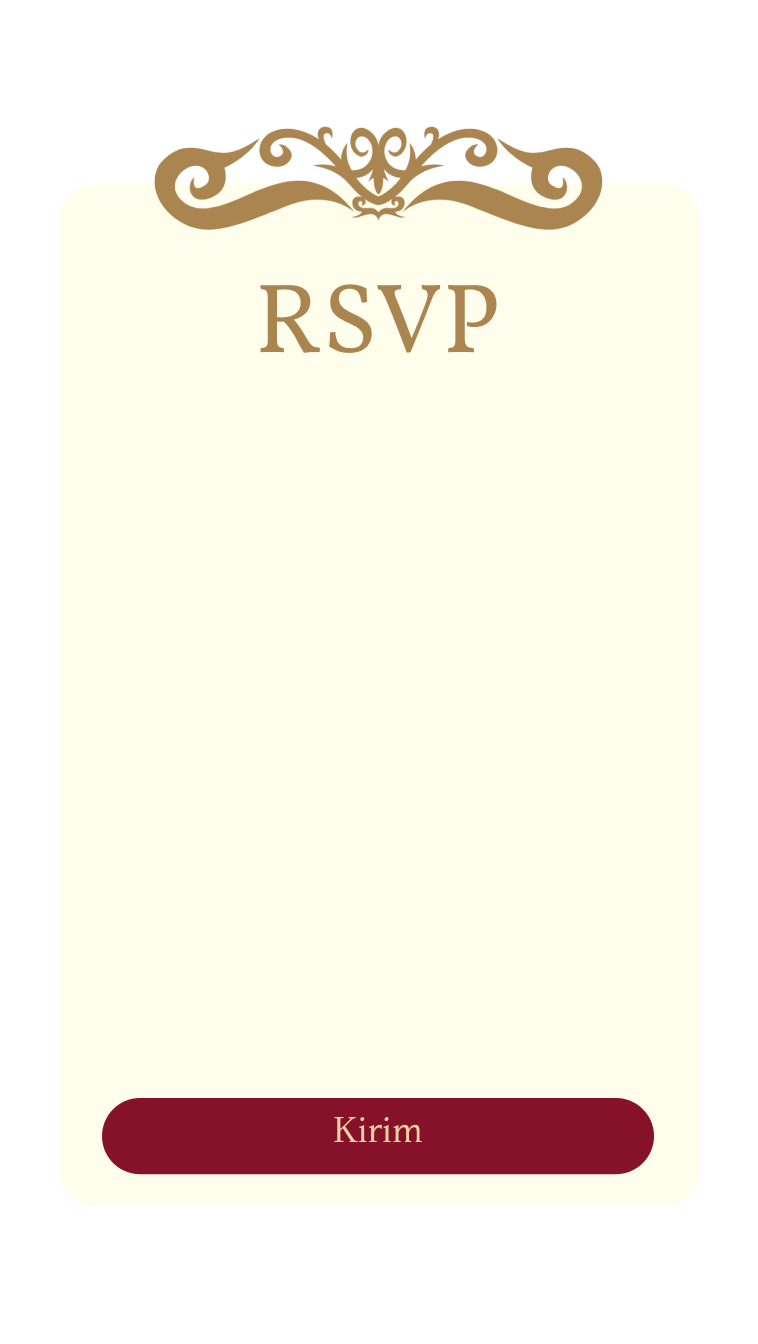
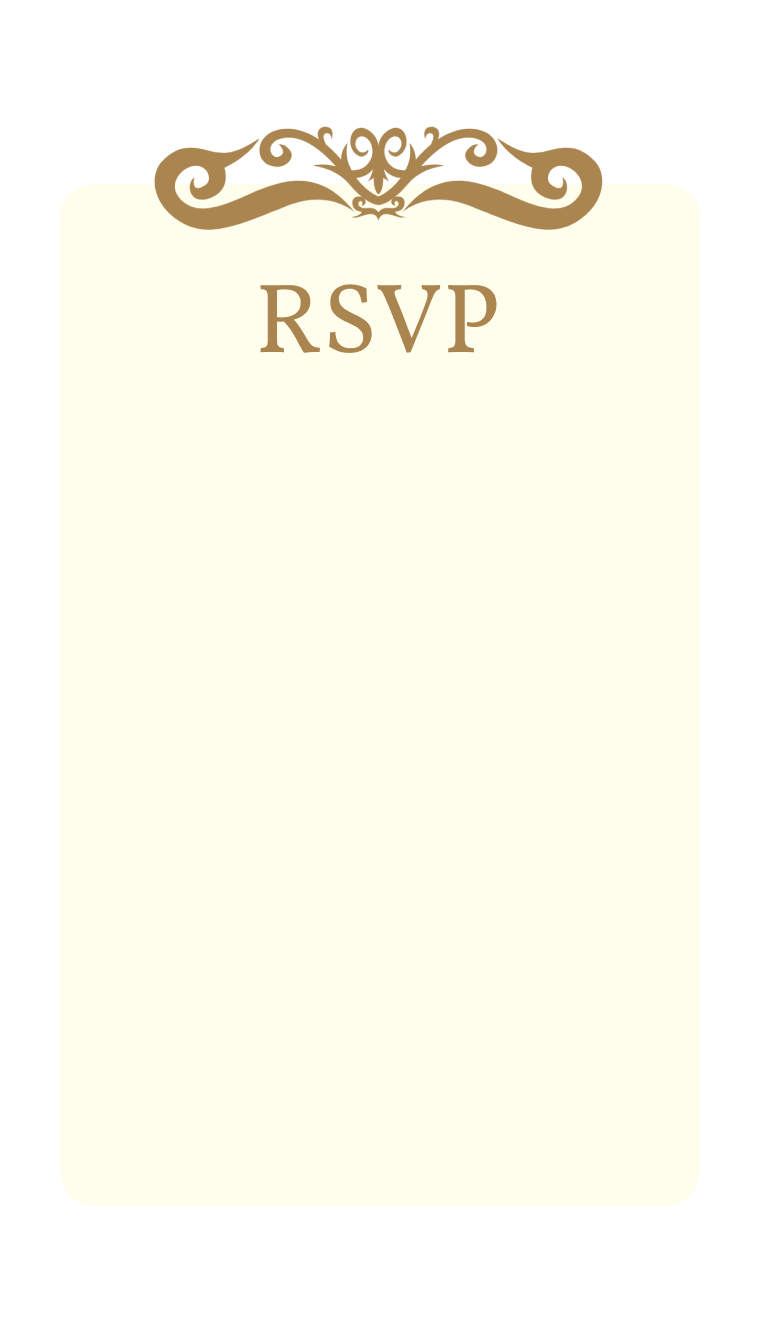
update rsvp form

Changed region(s): [[0.1214, 0.8125, 0.8799, 0.875]]

diff --git a/index.html b/index.html
@@ -124,10 +124,27 @@
                     <div class="overlap-group">
                         <img class="img-background fade-in-up delay-1" src="img/bg-section1-greatings.png" />
                         <img class="img-content fade-in-up delay-2" src="img/section6-rsvpbox.png" />
-                        <!-- ⚠⚠⚠tomboll kirim belum aktif -->
-                        <div class="form-container">
 
+                        <div class="form-container">
+                            <form class="form-rsvp fade-in-up delay-2" id="whatsapp-form">
+                                <label for="nama">Nama</label>
+                                <input type="text" id="nama" name="nama" required />
+
+                                <label for="hadir">Hadir</label>
+                                <select id="hadir" name="hadir" required>
+                                    <option value="" disabled selected>Pilih</option>
+                                    <option value="Ya">Ya</option>
+                                    <option value="Tidak">Tidak</option>
+                                </select>
+
+                                <label for="ucapan">Ucapan</label>
+                                <textarea id="ucapan" name="ucapan" rows="5" required></textarea>
+
+                                <button type="submit">Kirim</button>
+                            </form>
                         </div>
+
+
                     </div>
                 </div>
 

diff --git a/style.css b/style.css
@@ -313,11 +313,55 @@ html {
 }
 
 .form-container {
-    width: 320px;
-    height: 511px;
+    font-family: sans-serif;
+    color: #AA8550;
+    position: absolute;
+    top: 55%;
+    left: 50%;
     transform: translate(-50%, -50%);
-    display: inline;
+}
+
+.form-rsvp {
+    top: 55%;
+    min-width: 75vw;
+}
+
+form label {
+    display: block;
+    margin-top: 15px;
+    margin-bottom: 5px;
+    font-weight: 600;
+}
+
+form input,
+form select,
+form textarea {
     width: 100%;
+    padding: 10px;
+    border: 2px solid #b9802a;
+    border-radius: 10px;
+    background-color: transparent;
+    font-size: 16px;
+    box-sizing: border-box;
+    resize: vertical;
+    color: #5c3a01;
+}
+
+form button {
+    margin-top: 20px;
+    width: 100%;
+    background-color: #851128;
+    color: #fff2d5;
+    padding: 12px;
+    border: none;
+    border-radius: 30px;
+    font-size: 18px;
+    cursor: pointer;
+    font-family: inherit;
+}
+
+form button:hover {
+    background-color: #6b0e21;
 }
 
 

diff --git a/script.js b/script.js
@@ -281,3 +281,18 @@ document.addEventListener("DOMContentLoaded", function() {
         window.open("https://maps.app.goo.gl/y9Y1cNn8Rt8ponV96", "_blank");
     });
 });
+
+
+document.getElementById('whatsapp-form').addEventListener('submit', function(e) {
+    e.preventDefault(); // Mencegah reload halaman
+
+    const nama = document.getElementById('nama').value.trim();
+    const hadir = document.getElementById('hadir').value;
+    const ucapan = document.getElementById('ucapan').value.trim();
+
+    const pesan = `Halo Intan & Ikhwan! Saya *${nama}* akan *${hadir}* ke acara.\n\nUcapan:\n${ucapan}`;
+    const nomor = '6282361153298'; // ganti 0 dengan 62
+    const url = `https://wa.me/${nomor}?text=${encodeURIComponent(pesan)}`;
+
+    window.open(url, '_blank');
+});
